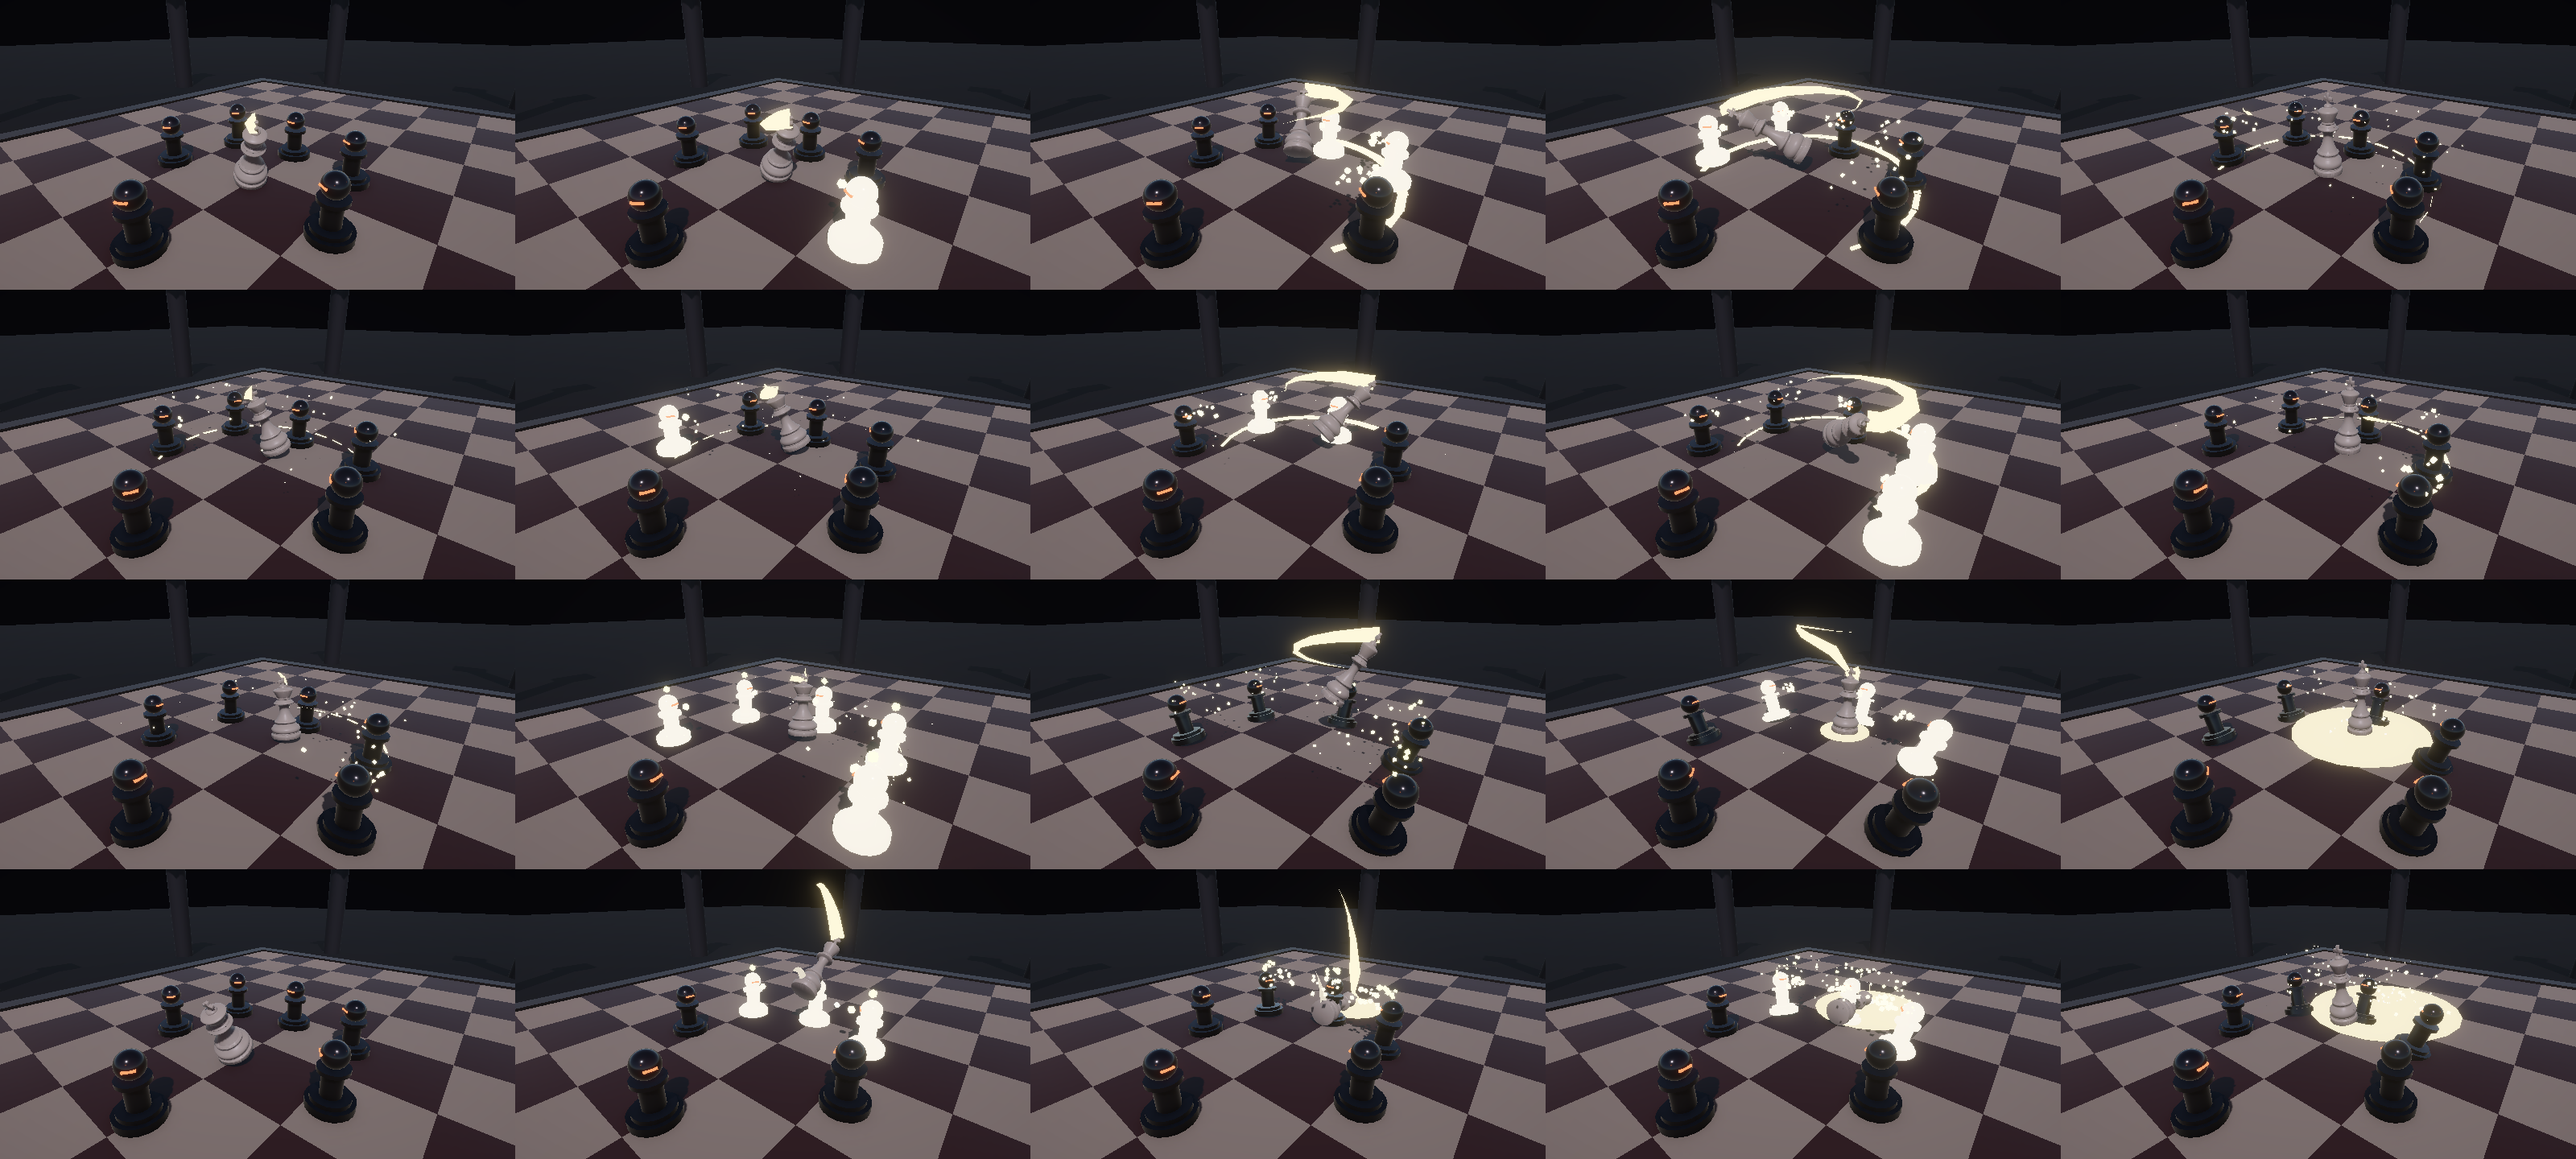
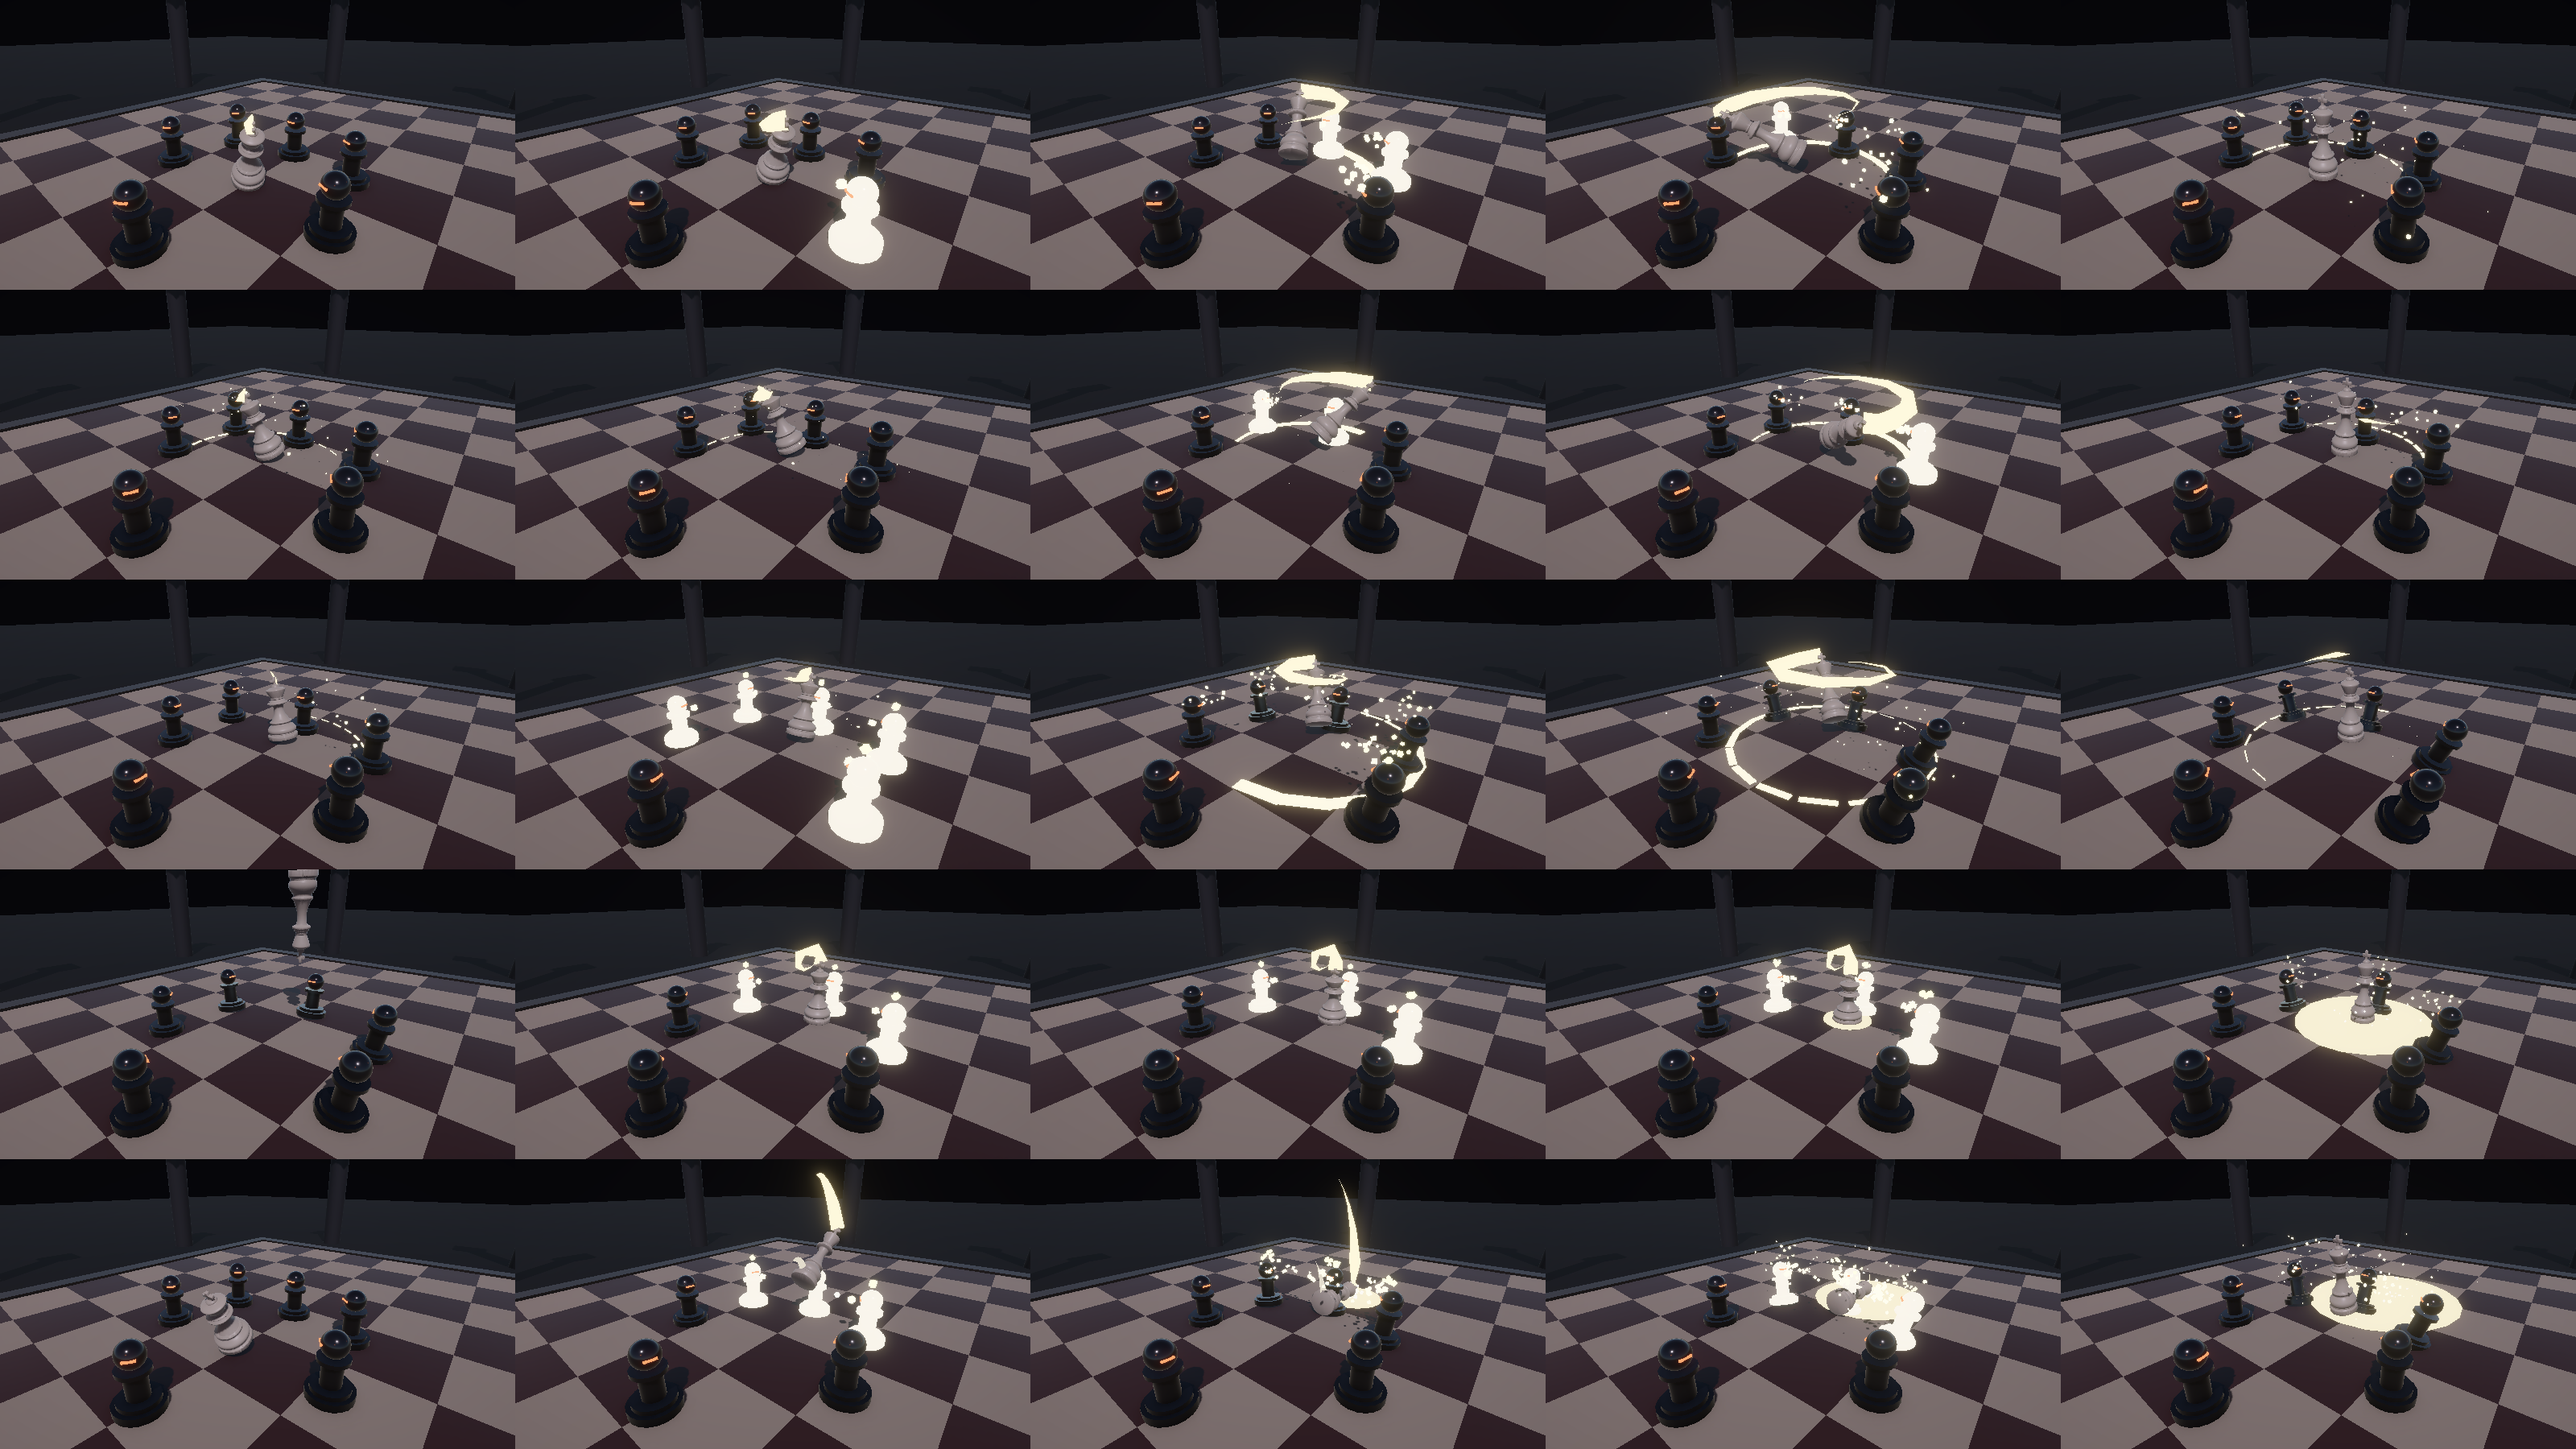
Royal Ensemble: 4-hit combo (whip, whip, 360° cyclone, air-flip meteor)
- Whips trimmed back toward the original reach (2.8 range, 220°)
- 3rd hit Royal Cyclone: big grounded 720° spin hitting all around, with a
  full ground ring slash
- 4th hit Royal Meteor: leap, forward somersault in the air, landing
  shockwave + zoom punch
- Slash crescents no longer require sweep hit filtering; lab captures up to
  four combo rows

diff --git a/Assets/Scripts/Combat/AttackStyles.cs b/Assets/Scripts/Combat/AttackStyles.cs
@@ -232,8 +232,8 @@ namespace KingLastPiece
                 new AttackStyle
                 {
                     name = "Royal Ensemble", koName = "왕의 연무",
-                    description = "Deep whip swings with ground slashes into a leaping 720° finisher; heavy is a leaping topple with an aftershock.",
-                    lights = new[] { EnsembleSwing(1f), EnsembleSwing(-1f), EnsembleFinisher() }, heavy = EnsembleTopple(),
+                    description = "Whip R→L, whip L→R, 360° cyclone, then an air somersault slam; heavy is a leaping topple with an aftershock.",
+                    lights = new[] { EnsembleSwing(1f), EnsembleSwing(-1f), EnsembleCyclone(), EnsembleMeteor() }, heavy = EnsembleTopple(),
                 },
             };
         }
@@ -255,29 +255,53 @@ namespace KingLastPiece
             {
                 new HitWindow
                 {
-                    start = 0.13f, end = 0.29f, range = 3.3f, arc = 260f, damage = 14f, poise = 14f, shake = 0.16f,
-                    sweep = true, sweepFrom = 125f * side, sweepTo = -125f * side, slash = true,
+                    start = 0.13f, end = 0.29f, range = 2.8f, arc = 220f, damage = 14f, poise = 14f, shake = 0.16f,
+                    sweep = true, sweepFrom = 110f * side, sweepTo = -110f * side, slash = true,
                 },
             },
-            moves = new[] { new MoveSeg(0.04f, 0.3f, 1.2f) },
+            moves = new[] { new MoveSeg(0.04f, 0.3f, 1.0f) },
         };
 
-        static AttackDef EnsembleFinisher() => new AttackDef
+        /// <summary>3rd hit: a big grounded spin that hits everything around the King.</summary>
+        static AttackDef EnsembleCyclone() => new AttackDef
         {
-            name = "Royal Cyclone", duration = 0.8f, cancelAt = 0.58f, cost = 16f,
+            name = "Royal Cyclone", duration = 0.72f, cancelAt = 0.48f, cost = 15f,
             pose = new PoseTrack()
                 .Key(0f, P())
-                .Key(0.12f, P(tilt: 12f, heading: -70f, spin: -70f, squash: -0.2f), Ease.Out)
-                .Key(0.4f, P(tilt: 40f, heading: 560f, spin: 560f, lift: 1.1f, squash: 0.12f), Ease.Linear)
-                .Key(0.48f, P(tilt: 14f, heading: 720f, spin: 720f, squash: -0.25f), Ease.In)
-                .Key(0.8f, P(heading: 720f, spin: 720f), Ease.OutBack),
+                .Key(0.12f, P(tilt: 16f, heading: -80f, spin: -80f, squash: -0.18f), Ease.Out)
+                .Key(0.42f, P(tilt: 50f, heading: 650f, spin: 650f, lift: 0.3f, squash: 0.06f), Ease.Linear)
+                .Key(0.72f, P(heading: 720f, spin: 720f), Ease.OutBack),
             hits = new[]
             {
-                new HitWindow { start = 0.13f, end = 0.4f, shape = HitShape.Circle, range = 3.4f, damage = 14f, poise = 16f, shake = 0.15f },
-                new HitWindow { start = 0.48f, end = 0.52f, shape = HitShape.Circle, range = 3.2f, damage = 12f, poise = 26f,
-                    hitStop = 0.08f, shake = 0.35f, impact = true, kick = 0.5f },
+                new HitWindow
+                {
+                    start = 0.14f, end = 0.42f, shape = HitShape.Circle, range = 3.4f, damage = 15f, poise = 18f, shake = 0.2f,
+                    slash = true, sweepFrom = 0f, sweepTo = 360f,
+                },
             },
-            moves = new[] { new MoveSeg(0.1f, 0.45f, 1.4f, Ease.InOut) },
+            moves = new[] { new MoveSeg(0.1f, 0.42f, 0.6f, Ease.InOut) },
+        };
+
+        /// <summary>4th hit: leaps, somersaults once in the air and slams down with a shockwave.</summary>
+        static AttackDef EnsembleMeteor() => new AttackDef
+        {
+            name = "Royal Meteor", duration = 0.88f, cancelAt = 0.68f, cost = 17f,
+            pose = new PoseTrack()
+                .Key(0f, P())
+                .Key(0.14f, P(squash: -0.26f), Ease.Out)
+                .Key(0.38f, P(flip: 180f, lift: 2.1f, squash: 0.1f), Ease.Out)
+                .Key(0.52f, P(flip: 360f), Ease.In)
+                .Key(0.6f, P(flip: 360f, squash: -0.3f), Ease.Out)
+                .Key(0.88f, P(flip: 360f), Ease.OutBack),
+            hits = new[]
+            {
+                new HitWindow
+                {
+                    start = 0.52f, end = 0.57f, shape = HitShape.Circle, range = 3.2f, damage = 20f, poise = 32f,
+                    hitStop = 0.09f, shake = 0.45f, impact = true, kick = 0.6f,
+                },
+            },
+            moves = new[] { new MoveSeg(0.14f, 0.52f, 1.6f, Ease.InOut) },
         };
 
         static AttackDef EnsembleTopple() => new AttackDef

diff --git a/Assets/Scripts/Combat/PlayerController.cs b/Assets/Scripts/Combat/PlayerController.cs
@@ -339,7 +339,7 @@ namespace KingLastPiece
                 if (!windowStarted[i])
                 {
                     windowStarted[i] = true;
-                    if (w.slash && w.sweep)
+                    if (w.slash)
                         SlashFx.Spawn(FlatPos + transform.forward * w.forward, transform.forward, w.range * 0.82f,
                             w.sweepFrom, w.sweepTo, w.end - w.start, new Color(1f, 0.82f, 0.45f));
                     if (w.kick > 0f) Game.Rig.Kick(w.kick);

diff --git a/Assets/Scripts/Lab/AttackLab.cs b/Assets/Scripts/Lab/AttackLab.cs
@@ -138,7 +138,7 @@ namespace KingLastPiece
                 Texture2D sheet = null;
                 int tileW = 0, tileH = 0;
                 const int cols = 5;
-                int lightRows = Mathf.Clamp(style.lights.Length, 2, 3);
+                int lightRows = Mathf.Clamp(style.lights.Length, 2, 4);
                 int rows = lightRows + 1;
 
                 for (int row = 0; row < rows; row++)

diff --git a/README.md b/README.md
@@ -14,7 +14,7 @@
 | --- | --- |
 | 스태미나 | 공격·구르기에 소모, 행동 후 잠시 뒤 회복 |
 | 구르기 | 무적 프레임(i-frame) 포함, 입력 없으면 백스텝 |
-| 몸통 공격 | 무기 없이 킹이 몸 자체를 휘둘러 공격 — 좌우 채찍 스윙 → 도약 회전 3단 콤보, 강공격은 도약 후 쓰러지는 체크메이트 토플 |
+| 몸통 공격 | 무기 없이 킹이 몸 자체를 휘둘러 공격 — 좌우 채찍 스윙 → 360° 회전 → 공중제비 내려찍기 4단 콤보, 강공격은 도약 후 쓰러지는 체크메이트 토플 |
 | 락온 | 대상 고정 카메라 + 스트레이프 이동 |
 | 회복 아이템 | Royal Flask 3개, 사용 중 이동 느려지고 피격 시 낭비 |
 | 텔레그래프 | 적 공격 전 붉은 발광 + 바닥 위험 범위 표시 |
@@ -35,15 +35,16 @@
 | 3 | Pendulum (몸통 휘두르기) | 좌우 교대 스윙 | 240° 대회전 | 트레일 궤적이 가장 크고 읽기 쉬움 |
 | 4 | Royal Stomp (착수 내려찍기) | 점프 후 착지 | 공중제비 메테오 | 착지 충격파는 좋으나 약공격 선딜 0.40s로 느림 |
 | 5 | Royal Charge (돌진 박치기) | 짧은 돌진 | 긴 로켓 돌진 | 시각 변화·명중 모두 가장 약함 |
-| **6** | **Royal Ensemble (왕의 연무) ★채택** | 로열 휩 R→L → L→R → 로열 사이클론 | 체크메이트 토플 | 아래 참고 |
+| **6** | **Royal Ensemble (왕의 연무) ★채택** | 로열 휩 R→L → L→R → 로열 사이클론 → 로열 메테오 | 체크메이트 토플 | 아래 참고 |
 
 **채택: Royal Ensemble** — 평가에서 가장 좋았던 요소를 하나의 리듬으로 묶었습니다.
-- 약공격 **로열 휩**: 64°까지 깊게 기울며 몸을 띄워 휘두르는 채찍 스윙 (선딜 0.13s, 260°, 사거리 3.3) — 바닥에 금빛 베기 궤적이 남아 넓은 판정을 눈으로 보여줌
-- 3타 **로열 사이클론**: 720° 회전하며 도약 → 착지 충격파 + 줌 펀치 (사거리 3.4, 2회 판정). 콤보 DPS 41.5 (후보 중 최고)
+- 1·2타 **로열 휩**: 64°까지 깊게 기울며 몸을 띄워 휘두르는 채찍 스윙 (선딜 0.13s, 220°, 사거리 2.8) — 바닥에 금빛 베기 궤적
+- 3타 **로열 사이클론**: 지상에서 크게 720° 회전하며 **주변 360° 전체** 타격 (사거리 3.4, 바닥에 원형 궤적)
+- 4타 **로열 메테오**: 도약해 공중에서 앞으로 한 바퀴 공중제비 → 착지 충격파 + 줌 펀치 (사거리 3.2)
 - 강공격 **체크메이트 토플**: 뒤로 젖혔다 도약해 앞으로 완전히 쓰러지며 내려찍기 → 여진 충격파(사거리 3.8). 선딜 0.62s의 고위험 고보상 시그니처 기술
 - 진자 스윙은 **왕관이 실제로 지나간 각도의 적만** 순서대로 맞습니다(스윕 판정)
 
-자동 평가: Attack Lab 플레이어 빌드를 `-autoshot <폴더>` 인자로 실행하면 스타일별 콘택트 시트(행: 약1·약2(·약3)·강 / 열: 준비→타격→회복)와 `stats.tsv`를 생성합니다. 결과물은 [`Docs/AttackLab`](Docs/AttackLab)에 있습니다.
+자동 평가: Attack Lab 플레이어 빌드를 `-autoshot <폴더>` 인자로 실행하면 스타일별 콘택트 시트(행: 약공격 콤보 각 타·강공격 / 열: 준비→타격→회복)와 `stats.tsv`를 생성합니다. 결과물은 [`Docs/AttackLab`](Docs/AttackLab)에 있습니다.
 
 Lab 조작: `1`–`6` 스타일 전환 · `C` 허수아비 리셋 · `G` 공격하는 폰 소환 · `H` 히트스톱 켜기/끄기 · 실험실에서는 **기력 무제한**
 
